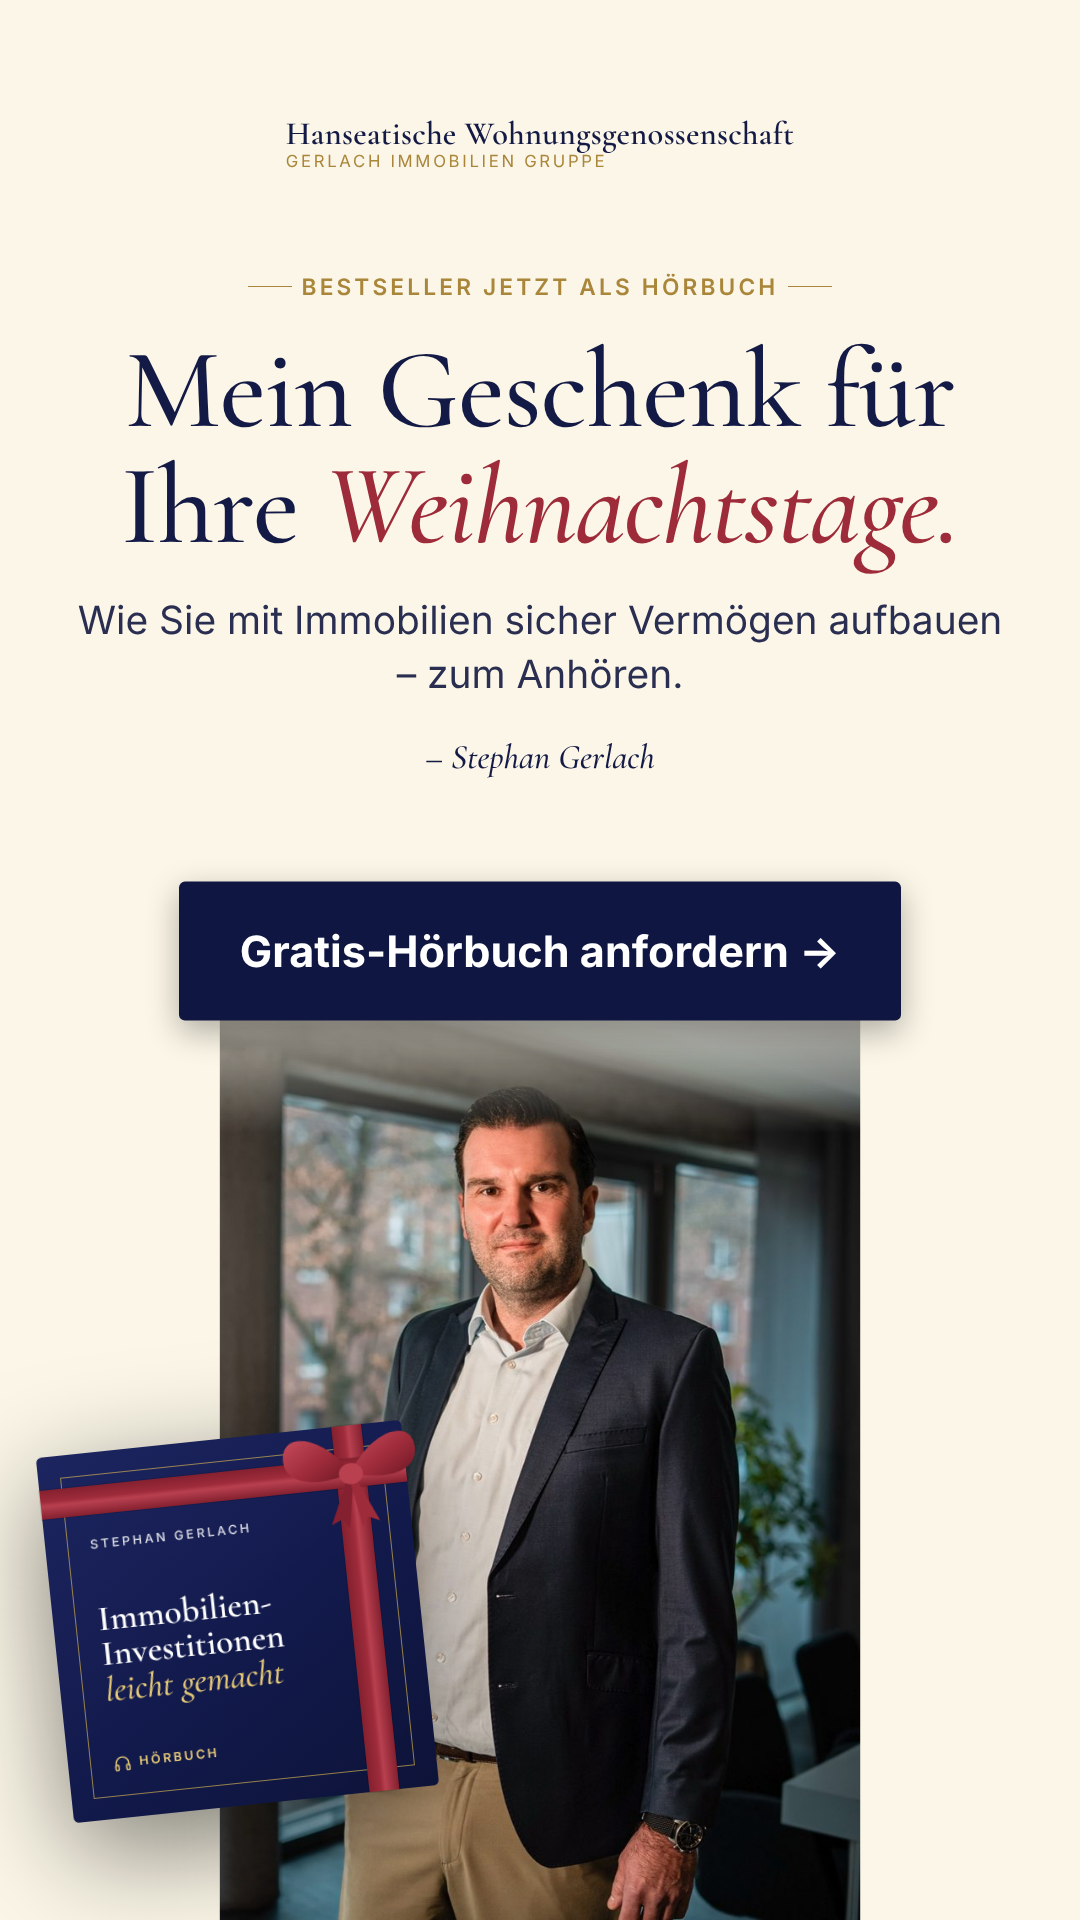
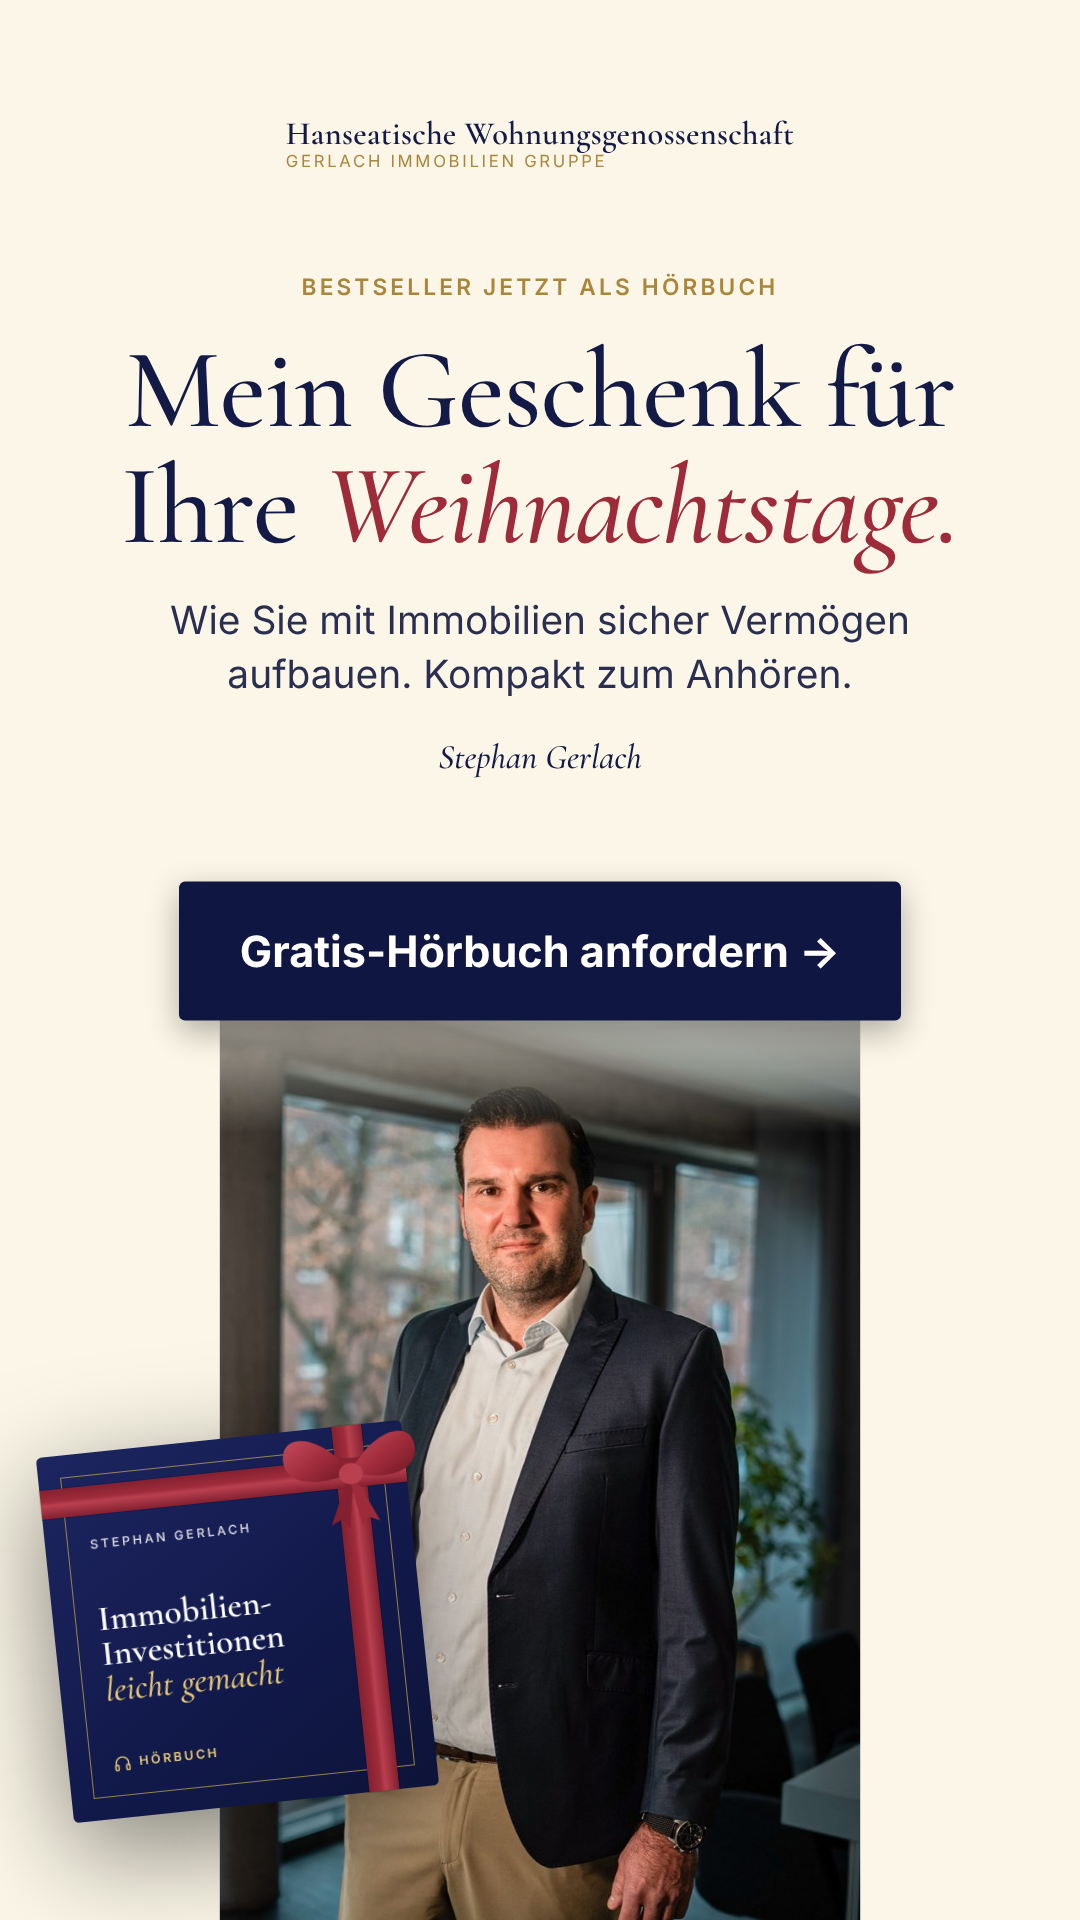
Hörbuch campaign: no eyebrow lines or dashes, shorter author photo
Landing page and ads drop the decorative lines beside the eyebrows and the
dashes in the copy; the author photo is square instead of 4:5. Ads lose the
emoji in the time chips.

Claude-Session: https://claude.ai/code/session_01MwbuZMrrPYKRN76czVZSnJ

Changed region(s): [[0.0611, 0.3125, 0.9167, 0.4062]]

diff --git a/sites/hwg-landing/hoerbuch-weihnachten/index.html b/sites/hwg-landing/hoerbuch-weihnachten/index.html
@@ -4,9 +4,9 @@
 <meta charset="utf-8">
 <meta name="viewport" content="width=device-width, initial-scale=1">
 <title>Gratis-Hörbuch zu Weihnachten · Immobilien-Investitionen leicht gemacht</title>
-<meta name="description" content="Unser Weihnachtsgeschenk an Sie: das Hörbuch zum Bestseller „Immobilien-Investitionen leicht gemacht“ von Stephan Gerlach – kostenlos als Download.">
+<meta name="description" content="Unser Weihnachtsgeschenk an Sie: das Hörbuch zum Bestseller „Immobilien-Investitionen leicht gemacht“ von Stephan Gerlach, kostenlos als Download.">
 <meta property="og:title" content="Gratis zu Weihnachten: das Hörbuch zum Bestseller von Stephan Gerlach">
-<meta property="og:description" content="„Immobilien-Investitionen leicht gemacht“ – jetzt kostenlos anhören. Sicher investieren, mit klarem Plan.">
+<meta property="og:description" content="„Immobilien-Investitionen leicht gemacht“ jetzt kostenlos anhören. Sicher investieren, mit klarem Plan.">
 <meta property="og:image" content="ads/png/a-geschenk-1200x674.png">
 <meta property="og:type" content="website">
 <link rel="preload" href="assets/inter-latin-wght-normal.woff2" as="font" type="font/woff2" crossorigin>
@@ -28,10 +28,10 @@
     <div class="wrap">
       <div>
         <span class="eyebrow">Unser Weihnachtsgeschenk an Sie</span>
-        <h1>Das Hörbuch zum Bestseller – <em>kostenlos</em> unterm Baum.</h1>
-        <p class="lead">„Immobilien-Investitionen leicht gemacht“ von Stephan Gerlach: der Praxisleitfaden für Ihre erste – oder nächste – Kapitalanlage-Immobilie. Sicher investieren, mit klarem Plan. Jetzt als Hörbuch, zu Weihnachten geschenkt.</p>
+        <h1>Das Hörbuch zum Bestseller. <em>Kostenlos</em> unterm Baum.</h1>
+        <p class="lead">„Immobilien-Investitionen leicht gemacht“ von Stephan Gerlach: der Praxisleitfaden für Ihre erste oder nächste Kapitalanlage-Immobilie. Sicher investieren, mit klarem Plan. Jetzt als Hörbuch, zu Weihnachten geschenkt.</p>
         <ul class="checks">
-          <li>Komplettes Hörbuch als MP3-Download – auf Handy, im Auto, beim Spaziergang</li>
+          <li>Komplettes Hörbuch als MP3-Download für Handy, Auto und Spaziergang</li>
           <li>Ideal für die ruhigen Tage zwischen den Jahren</li>
           <li>100&nbsp;% kostenlos, keine versteckten Kosten, kein Abo</li>
         </ul>
@@ -91,16 +91,16 @@
     <div class="wrap">
       <div class="section-head">
         <span class="eyebrow">Was Sie im Hörbuch erwartet</span>
-        <h2>Vermögen aufbauen mit Immobilien – verständlich erklärt.</h2>
+        <h2>Vermögen aufbauen mit Immobilien. Verständlich erklärt.</h2>
         <p class="lead">Stephan Gerlach zeigt, wie Sie eine Wohnung oder ein Haus als Kapitalanlage kaufen: Schritt für Schritt, ohne Fachchinesisch und mit dem Blick eines Praktikers, der Immobilienprojekte selbst erwirbt, saniert und verwaltet.</p>
       </div>
       <div class="learn">
-        <article><span class="num">01</span><h3>Sicherheit zuerst</h3><p>Woran Sie eine solide Anlage-Immobilie erkennen – und welche Risiken Sie von Anfang an ausschließen sollten.</p></article>
+        <article><span class="num">01</span><h3>Sicherheit zuerst</h3><p>Woran Sie eine solide Anlage-Immobilie erkennen und welche Risiken Sie von Anfang an ausschließen sollten.</p></article>
         <article><span class="num">02</span><h3>Rendite, die trägt</h3><p>Wie Sie Kaufpreis, Miete und Finanzierung so zusammenbringen, dass sich die Immobilie langfristig rechnet.</p></article>
         <article><span class="num">03</span><h3>Ein klarer Plan</h3><p>Vom ersten Gedanken bis zur vermieteten Wohnung: die Schritte in der richtigen Reihenfolge.</p></article>
-        <article><span class="num">04</span><h3>Lage &amp; Objektwahl</h3><p>Welche Fragen Sie vor dem Kauf stellen sollten – und warum der günstigste Preis selten das beste Angebot ist.</p></article>
+        <article><span class="num">04</span><h3>Lage &amp; Objektwahl</h3><p>Welche Fragen Sie vor dem Kauf stellen sollten und warum der günstigste Preis selten das beste Angebot ist.</p></article>
         <article><span class="num">05</span><h3>Typische Fehler vermeiden</h3><p>Die Stolperfallen, die Einsteiger am meisten Geld kosten, und wie Sie sie umgehen.</p></article>
-        <article><span class="num">06</span><h3>Wenig Aufwand</h3><p>Wie Sie investieren, ohne dass die Immobilie zum Zweitjob wird – Verwaltung und Vermietung inklusive.</p></article>
+        <article><span class="num">06</span><h3>Wenig Aufwand</h3><p>Wie Sie investieren, ohne dass die Immobilie zum Zweitjob wird. Verwaltung und Vermietung inklusive.</p></article>
       </div>
     </div>
   </section>
@@ -112,7 +112,7 @@
         <span class="eyebrow">Über den Autor</span>
         <h2 style="margin-top:14px">Stephan Gerlach</h2>
         <p class="lead" style="margin:16px 0 0">Gründer der Gerlach Immobilien Gruppe und Vorstandsvorsitzender der Hanseatischen Wohnungsgenossenschaft. Experte für nachhaltige Kapitalanlage-Immobilien, der Anleger von der Objektwahl über die Finanzierung bis zur langfristigen Verwaltung begleitet.</p>
-        <blockquote>Sein Anspruch: Immobilien-Investitionen so zu erklären, dass jeder sie versteht – und sicher umsetzen kann.</blockquote>
+        <blockquote>Sein Anspruch: Immobilien-Investitionen so zu erklären, dass jeder sie versteht und sicher umsetzen kann.</blockquote>
         <div class="seals">
           <img src="assets/siegel-top-experte-2026.png" alt="Siegel Top Experte 2026" loading="lazy">
           <img src="assets/siegel-top-100-unternehmer-2024.png" alt="Siegel Top 100 Unternehmer 2024" loading="lazy">
@@ -129,7 +129,7 @@
         <h2>In drei Schritten zu Ihrem Hörbuch.</h2>
       </div>
       <ol class="steps">
-        <li><h3>Formular ausfüllen</h3><p>Vorname und E-Mail-Adresse eintragen – das dauert keine 30 Sekunden.</p></li>
+        <li><h3>Formular ausfüllen</h3><p>Vorname und E-Mail-Adresse eintragen. Das dauert keine 30 Sekunden.</p></li>
         <li><h3>E-Mail öffnen</h3><p>Sie erhalten sofort Ihren persönlichen Download-Link. Schauen Sie ggf. auch im Spam-Ordner nach.</p></li>
         <li><h3>Zurücklehnen &amp; zuhören</h3><p>Mit einer Tasse Tee unterm Weihnachtsbaum, im Auto zur Familie oder beim Winterspaziergang.</p></li>
       </ol>
@@ -151,10 +151,10 @@
       </div>
       <div class="faq">
         <details><summary>Ist das Hörbuch wirklich kostenlos?</summary><p>Ja. Es ist unser Weihnachtsgeschenk an Sie. Es entstehen keine Kosten, und Sie schließen kein Abo ab.</p></details>
-        <details><summary>In welchem Format bekomme ich das Hörbuch?</summary><p>Sie erhalten einen Download-Link per E-Mail. Die Dateien lassen sich auf jedem Smartphone, Tablet oder Computer abspielen – ohne zusätzliche App.</p></details>
-        <details><summary>Für wen ist das Hörbuch gedacht?</summary><p>Für alle, die mit Immobilien Vermögen aufbauen möchten – egal ob Sie noch ganz am Anfang stehen oder bereits eine Wohnung besitzen und den nächsten Schritt planen.</p></details>
+        <details><summary>In welchem Format bekomme ich das Hörbuch?</summary><p>Sie erhalten einen Download-Link per E-Mail. Die Dateien lassen sich auf jedem Smartphone, Tablet oder Computer abspielen, ohne zusätzliche App.</p></details>
+        <details><summary>Für wen ist das Hörbuch gedacht?</summary><p>Für alle, die mit Immobilien Vermögen aufbauen möchten, egal ob Sie noch ganz am Anfang stehen oder bereits eine Wohnung besitzen und den nächsten Schritt planen.</p></details>
         <details><summary>Was passiert mit meinen Daten?</summary><p>Wir nutzen Ihre Angaben, um Ihnen das Hörbuch zu senden und Sie über Kapitalanlage-Immobilien zu informieren. Sie können sich jederzeit mit einem Klick abmelden. Mehr dazu in unserer <a href="https://gerlachgroup.de/datenschutzerklarung/" target="_blank" rel="noopener">Datenschutzerklärung</a>.</p></details>
-        <details><summary>Ich habe keine E-Mail bekommen – was nun?</summary><p>Bitte prüfen Sie Ihren Spam- oder Werbung-Ordner. Ist auch dort nichts, schreiben Sie uns an <a href="mailto:info@gerlachgroup.de">info@gerlachgroup.de</a> – wir senden Ihnen den Link gern erneut.</p></details>
+        <details><summary>Ich habe keine E-Mail bekommen. Was nun?</summary><p>Bitte prüfen Sie Ihren Spam- oder Werbung-Ordner. Ist auch dort nichts, schreiben Sie uns an <a href="mailto:info@gerlachgroup.de">info@gerlachgroup.de</a>, wir senden Ihnen den Link gern erneut.</p></details>
       </div>
     </div>
   </section>
@@ -163,7 +163,7 @@
     <div class="wrap">
       <span class="eyebrow">Frohe Weihnachten</span>
       <h2>Schenken Sie sich selbst einen klaren Plan für 2027.</h2>
-      <p>Das Hörbuch „Immobilien-Investitionen leicht gemacht“ – kostenlos, nur in der Weihnachtszeit.</p>
+      <p>Das Hörbuch „Immobilien-Investitionen leicht gemacht“: kostenlos, nur in der Weihnachtszeit.</p>
       <a class="btn btn-auto" href="#lead-form">🎁 Hörbuch gratis sichern</a>
     </div>
   </section>
@@ -230,7 +230,7 @@
   });
 
   document.getElementById('share-btn').addEventListener('click', function () {
-    var data = { title: 'Gratis-Hörbuch zu Weihnachten', text: '„Immobilien-Investitionen leicht gemacht“ von Stephan Gerlach – kostenlos als Hörbuch:', url: location.origin + location.pathname };
+    var data = { title: 'Gratis-Hörbuch zu Weihnachten', text: '„Immobilien-Investitionen leicht gemacht“ von Stephan Gerlach, kostenlos als Hörbuch:', url: location.origin + location.pathname };
     if (navigator.share) { navigator.share(data).catch(function () {}); return; }
     var b = this;
     navigator.clipboard.writeText(data.url).then(function () { b.textContent = 'Link kopiert ✓'; });

diff --git a/sites/hwg-landing/hoerbuch-weihnachten/ads/src/ad.html b/sites/hwg-landing/hoerbuch-weihnachten/ads/src/ad.html
@@ -27,7 +27,7 @@
   .body { position: relative; z-index: 2; flex: 1; display: grid; align-content: center; gap: calc(var(--u)*3.5); }
   .text { display: grid; gap: calc(var(--u)*2.6); align-content: start; }
   .eyebrow { color: var(--gold-400); font-size: calc(var(--u)*2.1); }
-  .eyebrow::before { width: calc(var(--u)*4); }
+  .eyebrow::before { content: none; }
   h1 { font-size: calc(var(--u)*8); line-height: 1.02; }
   h1 em { color: var(--gold-400); }
   .sub { margin: 0; font-size: calc(var(--u)*2.9); line-height: 1.4; color: rgba(255,255,255,.85); }
@@ -56,7 +56,6 @@
   .f-portrait .visual, .f-story .visual { grid-area: visual; }
   .f-portrait .actions, .f-story .actions { grid-area: actions; justify-items: center; }
   .f-portrait .times, .f-story .times { justify-content: center; }
-  .f-portrait .eyebrow::after, .f-story .eyebrow::after { content: ""; width: calc(var(--u)*4); height: 1px; background: currentColor; }
   .f-portrait { --gift: calc(var(--u)*42); }
   .f-portrait h1 { font-size: calc(var(--u)*8.4); }
   .f-portrait .body { gap: calc(var(--u)*4); }
@@ -144,7 +143,7 @@ const concepts = {
       <div class="body">
         <div class="text">
           <span class="eyebrow">Unser Weihnachtsgeschenk an Sie</span>
-          <h1>Das Hörbuch zum Bestseller – <em>gratis.</em></h1>
+          <h1>Das Hörbuch zum Bestseller. <em>Gratis.</em></h1>
           <p class="sub">„Immobilien-Investitionen leicht gemacht“ von Stephan Gerlach. Sicher investieren, mit klarem Plan.</p>
         </div>
         ${gift}
@@ -156,8 +155,8 @@ const concepts = {
         <div class="text">
           <span class="eyebrow">Bestseller jetzt als Hörbuch</span>
           <h1>Mein Geschenk für Ihre <em>Weihnachtstage.</em></h1>
-          <p class="sub">Wie Sie mit Immobilien sicher Vermögen aufbauen – zum Anhören.</p>
-          <span class="name">– Stephan Gerlach</span>
+          <p class="sub">Wie Sie mit Immobilien sicher Vermögen aufbauen. Kompakt zum Anhören.</p>
+          <span class="name">Stephan Gerlach</span>
         </div>
         <div class="actions"><span class="cta">Gratis-Hörbuch anfordern →</span></div>
       </div>${gift}${legal}</div>`,
@@ -170,7 +169,7 @@ const concepts = {
         </div>
         ${gift}
         <div class="actions">
-          <div class="times"><span>☕ Unterm Baum</span><span>🚗 Im Auto</span><span>❄ Beim Spaziergang</span></div>
+          <div class="times"><span>Unterm Baum</span><span>Im Auto</span><span>Beim Spaziergang</span></div>
           <span class="cta">Hörbuch gratis anhören →</span>
         </div>
       </div>${legal}</div>`,

diff --git a/sites/hwg-landing/hoerbuch-weihnachten/assets/campaign.css b/sites/hwg-landing/hoerbuch-weihnachten/assets/campaign.css
@@ -40,7 +40,6 @@ a { color: inherit; }
 .wrap { width: 100%; max-width: 1160px; margin: 0 auto; padding: 0 20px; }
 .serif { font-family: var(--serif); }
 .eyebrow { display: inline-flex; align-items: center; gap: 10px; font-size: 13px; font-weight: 600; letter-spacing: .14em; text-transform: uppercase; color: var(--gold-700); }
-.eyebrow::before { content: ""; width: 28px; height: 1px; background: currentColor; }
 h1, h2, h3 { font-family: var(--serif); font-weight: 500; line-height: 1.08; letter-spacing: -.01em; margin: 0; }
 h2 { font-size: clamp(34px, 4.6vw, 52px); }
 .lead { font-size: 19px; color: var(--ink-2); }
@@ -139,8 +138,7 @@ section { padding: 88px 0; }
 
 .author { display: grid; grid-template-columns: 320px 1fr; gap: 56px; align-items: center; }
 .author-photo { position: relative; }
-.author-photo img { border-radius: var(--radius); aspect-ratio: 4/5; object-fit: cover; width: 100%; }
-.author-photo::after { content: ""; position: absolute; inset: 14px -14px -14px 14px; border: 1px solid var(--gold); border-radius: var(--radius); z-index: -1; }
+.author-photo img { border-radius: var(--radius); aspect-ratio: 1 / 1; height: auto; object-fit: cover; object-position: 50% 12%; width: 100%; }
 .author blockquote { margin: 26px 0; padding-left: 20px; border-left: 2px solid var(--gold); font-family: var(--serif); font-style: italic; font-size: 26px; line-height: 1.3; color: var(--ink); }
 .seals { display: flex; flex-wrap: wrap; gap: 18px; align-items: center; margin-top: 26px; }
 .seals img { height: 86px; width: auto; }

diff --git a/sites/hwg-landing/hoerbuch-weihnachten/danke.html b/sites/hwg-landing/hoerbuch-weihnachten/danke.html
@@ -41,7 +41,7 @@
       <div>
         <span class="eyebrow">Der nächste Schritt</span>
         <h2 style="margin:14px 0 16px">Lieber direkt persönlich sprechen?</h2>
-        <p class="lead" style="margin:0 0 26px">Sie haben schon konkrete Fragen zu Ihrer Kapitalanlage? Vereinbaren Sie ein kostenloses, unverbindliches Erstgespräch (30 Minuten) mit unserem Team – gern auch erst im neuen Jahr.</p>
+        <p class="lead" style="margin:0 0 26px">Sie haben schon konkrete Fragen zu Ihrer Kapitalanlage? Vereinbaren Sie ein kostenloses, unverbindliches Erstgespräch (30 Minuten) mit unserem Team, gern auch erst im neuen Jahr.</p>
         <a class="btn" href="https://calendly.com/dpp-gerlachgroup/30min-erstgesprach-gig" target="_blank" rel="noopener">Kostenloses Erstgespräch buchen</a>
       </div>
       <img src="assets/stephan-gerlach-portraet.jpg" alt="Stephan Gerlach" width="760" height="1138">
